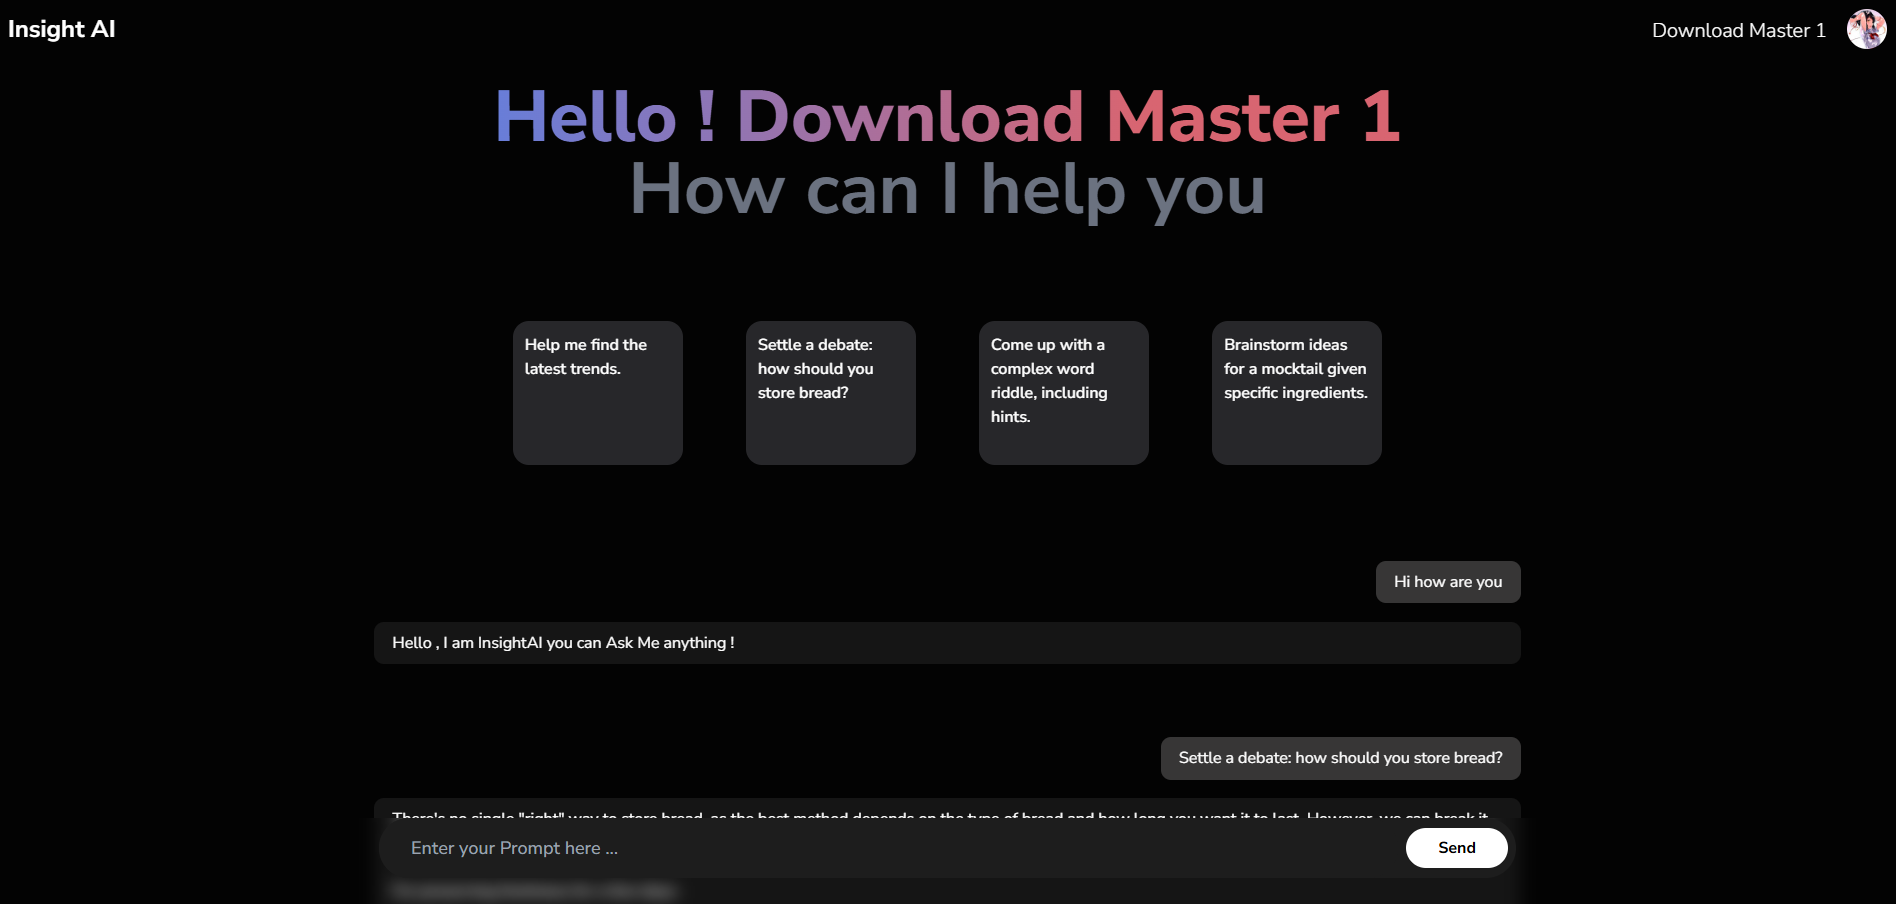
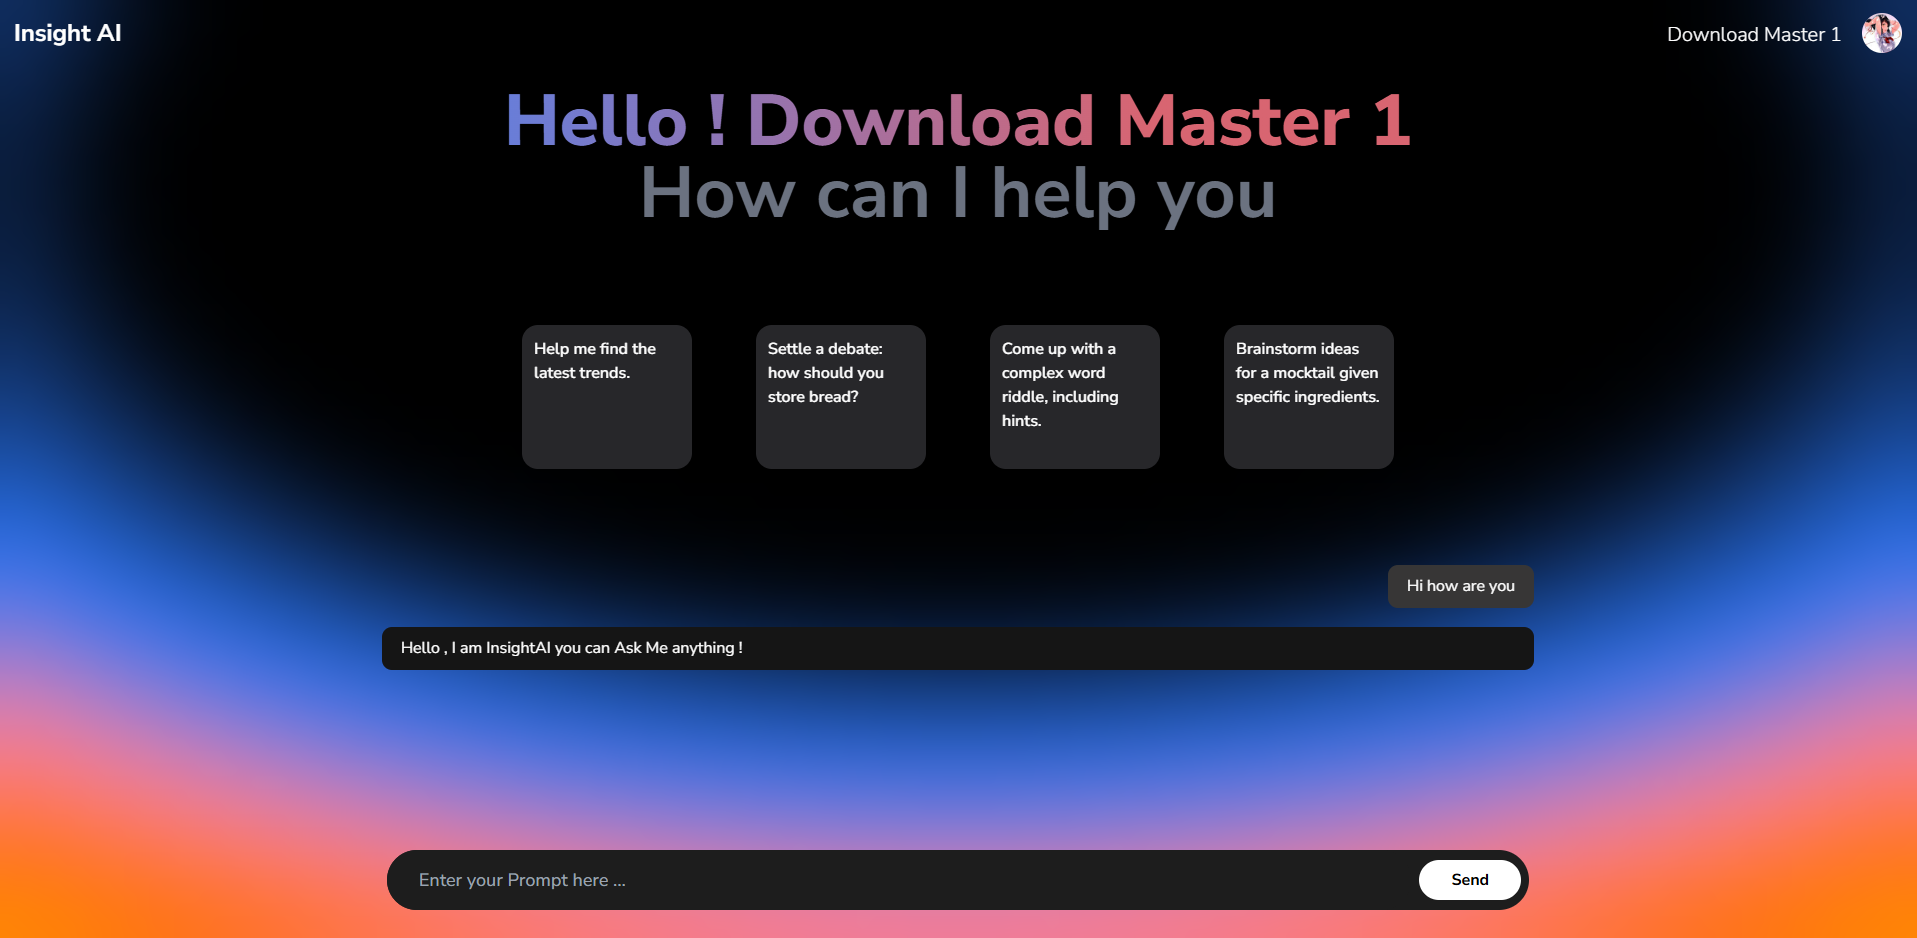
feat: add new Readme

diff --git a/Frontend/src/pages/Landing.tsx b/Frontend/src/pages/Landing.tsx
@@ -2,13 +2,27 @@ import React from "react";
 import { HeroGeometric } from "@/components/ui/shape-landing-hero.js";
 import firebase from "firebase/compat/app";
 import { auth } from "@/Firebase/firebase.js";
-import { SignUpAPI } from "@/services/api.js";
 import { useNavigate } from "react-router-dom";
 import { StackedCircularFooter } from "@/components/ui/stacked-circular-footer";
 import { HeroScrollDemo } from "@/components/Scroll-landing";
 import { GoogleGeminiEffectDemo } from "@/components/gemini-power";
 import { PricingDemo } from "@/components/price-component";
 import { toast } from "sonner";
+import { ReactLenis, useLenis } from "lenis/react";
+
+export const handleGoogleSignIn = async (): Promise<void> => {
+  toast.loading("Signing in...");
+  const provider = new firebase.auth.GoogleAuthProvider();
+  try {
+    const result = await auth.signInWithPopup(provider);
+    const { displayName, photoURL, uid, email } = result.user as UserData;
+    const userData: UserData = { displayName, photoURL, uid, email };
+    localStorage.setItem("user", JSON.stringify(userData));
+    toast.dismiss();
+  } catch (error) {
+    console.error("Google sign-in error:", error);
+  }
+};
 
 interface UserData {
   displayName: string | null;
@@ -17,65 +31,32 @@ interface UserData {
   email: string | null;
 }
 const SignUp: React.FC = () => {
+  useLenis(() => {});
+
   const navigate = useNavigate();
-  const handleGoogleSignIn = async (): Promise<void> => {
-    const provider = new firebase.auth.GoogleAuthProvider();
-    try {
-      const result = await auth.signInWithPopup(provider);
-      const { displayName, photoURL, uid, email } = result.user as UserData;
-
-      const userData: UserData = { displayName, photoURL, uid, email };
-      localStorage.setItem("user", JSON.stringify(userData));
-      toast.loading("Signing in...");
-      const credential =
-        result.credential as firebase.auth.OAuthCredential | null;
-
-      if (credential) {
-        const { idToken } = credential as { idToken: string | null };
-        const data = {
-          idToken: idToken,
-          displayName,
-          photoURL,
-          uid,
-          email: email,
-        };
-        try {
-          const res = await SignUpAPI(data);
-          if (res?.status === 200) {
-            navigate("/ai");
-          }
-          if (res?.status === 201) {
-            navigate("/ai");
-          }
-        } catch (error) {
-          console.error("Error signing in:", error);
-        }
-      } else {
-        console.log("No credentials found");
-      }
-    } catch (error) {
-      console.error("Google sign-in error:", error);
-    }
-  };
 
   return (
     <>
-      <div>
-        <HeroGeometric
-          badge="A Gemini Clone"
-          title1="Insight AI"
-          title2="Your AI Assistant"
-          description="Insight AI is your personal AI assistant. It can help you with your daily tasks and make your life easier."
-          buttonText="Sign Up with Google"
-          OnClick={handleGoogleSignIn}
-        />
-        <div className="bg-black">
-          <HeroScrollDemo />
-          <GoogleGeminiEffectDemo />
-          <PricingDemo />
-          <StackedCircularFooter />
+      <ReactLenis root>
+        <div>
+          <HeroGeometric
+            badge="A Gemini Clone"
+            title1="Insight AI"
+            title2="Your AI Assistant"
+            description="Insight AI is your personal AI assistant. It can help you with your daily tasks and make your life easier."
+            buttonText="Try Now"
+            OnClick={() => {
+              navigate("/ai");
+            }}
+          />
+          <div className="bg-black">
+            <HeroScrollDemo />
+            <GoogleGeminiEffectDemo />
+            <PricingDemo />
+            <StackedCircularFooter />
+          </div>
         </div>
-      </div>
+      </ReactLenis>
     </>
   );
 };

diff --git a/Frontend/src/components/Navbar.tsx b/Frontend/src/components/Navbar.tsx
@@ -1,6 +1,22 @@
+import { handleGoogleSignIn } from "@/pages/Landing";
 import { getUserDataFromLocalStorage } from "@/services/api";
+import { useState } from "react";
 
 const Navbar: React.FC = () => {
+
+  const [isLoading, setIsLoading] = useState(false);
+
+  const handleSignIn = async () => {
+    try {
+      setIsLoading(true);
+      await handleGoogleSignIn();
+      setIsLoading(false);
+    } catch (error) {
+      console.error("Error signing in:", error);
+    } finally {
+      setIsLoading(false);
+    }
+  };
   const userdata = getUserDataFromLocalStorage();
   return (
     <div className="navbar h-6h sticky top-0 w-full flex justify-between items-center  text-white pr-4 pl-4 pt-4 backdrop-filter backdrop-blur">
@@ -20,8 +36,12 @@ const Navbar: React.FC = () => {
         ) : (
           <>
             {" "}
-            <h1 className="font-light text-xl cursor-pointer ">Signup</h1>
-            <h1 className="font-light text-xl cursor-pointer ">FAQ</h1>
+            <button 
+              onClick={handleSignIn} 
+              className="bg-gradient-to-r from-blue-500 to-purple-600 hover:from-blue-600 hover:to-purple-700 text-white font-semibold py-2 px-6 rounded-lg transition-all duration-300 ease-in-out transform hover:shadow-lg"
+            >
+              Sign Up
+            </button>
           </>
         )}
       </div>

diff --git a/Frontend/src/Firebase/firebase.ts b/Frontend/src/Firebase/firebase.ts
@@ -2,13 +2,13 @@ import firebase from 'firebase/compat/app';
 import 'firebase/compat/auth';
 
 const firebaseConfig = {
-  apiKey: "AIzaSyCV4T5ZVBRbpRRxTy8KmkAOus9dRTEUpwY",
-  authDomain: "insightai-b93cb.firebaseapp.com",
-  projectId: "insightai-b93cb",
-  storageBucket: "insightai-b93cb.appspot.com",
-  messagingSenderId: "657237307881",
-  appId: "1:657237307881:web:370ce5ccd003ffaa615b78",
-  measurementId: "G-Z99JYVGYMG"
+  apiKey: import.meta.env.VITE_FIREBASE_API_KEY,
+  authDomain: import.meta.env.VITE_FIREBASE_AUTH_DOMAIN,
+  projectId: import.meta.env.VITE_FIREBASE_PROJECT_ID,
+  storageBucket: import.meta.env.VITE_FIREBASE_STORAGE_BUCKET,
+  messagingSenderId: import.meta.env.VITE_FIREBASE_MESSAGING_SENDER_ID,
+  appId: import.meta.env.VITE_FIREBASE_APP_ID,
+  measurementId: import.meta.env.VITE_FIREBASE_MEASUREMENT_ID
 };
 
 // Initialize Firebase

diff --git a/Frontend/src/components/Inputs.tsx b/Frontend/src/components/Inputs.tsx
@@ -20,7 +20,7 @@ const Input: React.FC<inputProps> = ({
 }: inputProps) => {
   return (
     <div className="w-full  flex items-center justify-center">
-      <div className="w-full rounded-full pr-2 md:w-[60%] flex items-center justify-center gap-2 bg-[#1D1D1D]">
+      <div className="w-full rounded-full pr-2 md:w-[65%] flex items-center justify-center gap-2 bg-[#1D1D1D]">
         <input
           onChange={onChange}
           name={name}

diff --git a/Frontend/src/components/ui/google-gemini-effect.tsx b/Frontend/src/components/ui/google-gemini-effect.tsx
@@ -19,7 +19,7 @@ export const GoogleGeminiEffect = ({
   className?: string;
 }) => {
   return (
-    <div className={cn("sticky top-80", className)}>
+    <div className={cn("sticky top-40", className)}>
       <p className="text-lg md:text-7xl font-normal pb-4 text-center bg-clip-text text-transparent bg-gradient-to-b from-neutral-100 to-neutral-300">
         {title || `Build with Aceternity UI`}
       </p>

diff --git a/Frontend/src/components/gemini-power.tsx b/Frontend/src/components/gemini-power.tsx
@@ -17,7 +17,7 @@ export function GoogleGeminiEffectDemo() {
 
   return (
     <div
-      className="h-[400vh] bg-black w-full dark:border dark:border-white/[0.1] rounded-md relative pt-40 overflow-clip"
+      className="h-[200vh] bg-black w-full dark:border dark:border-white/[0.1] rounded-md relative  overflow-clip"
       ref={ref}
     >
       <GoogleGeminiEffect
